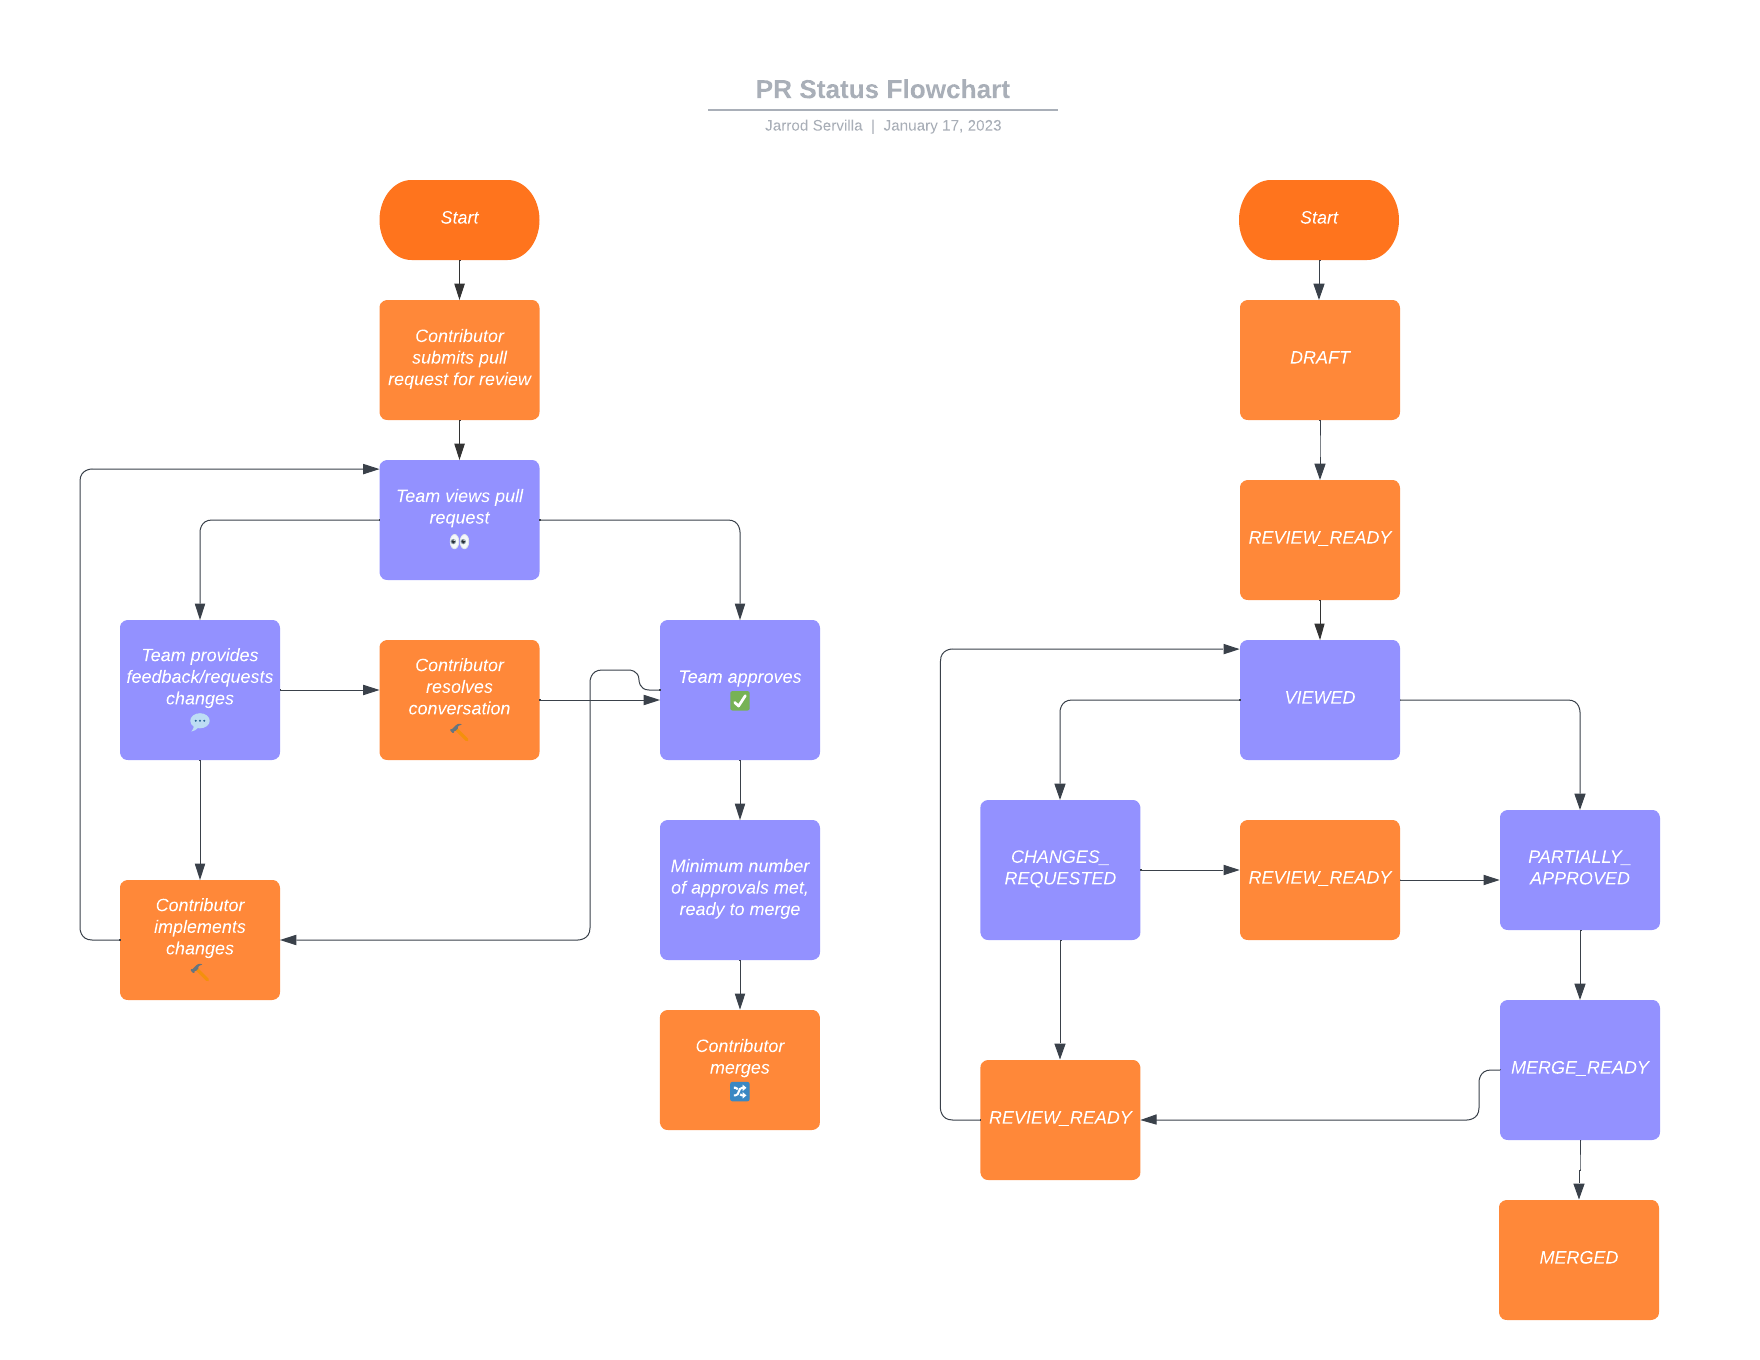
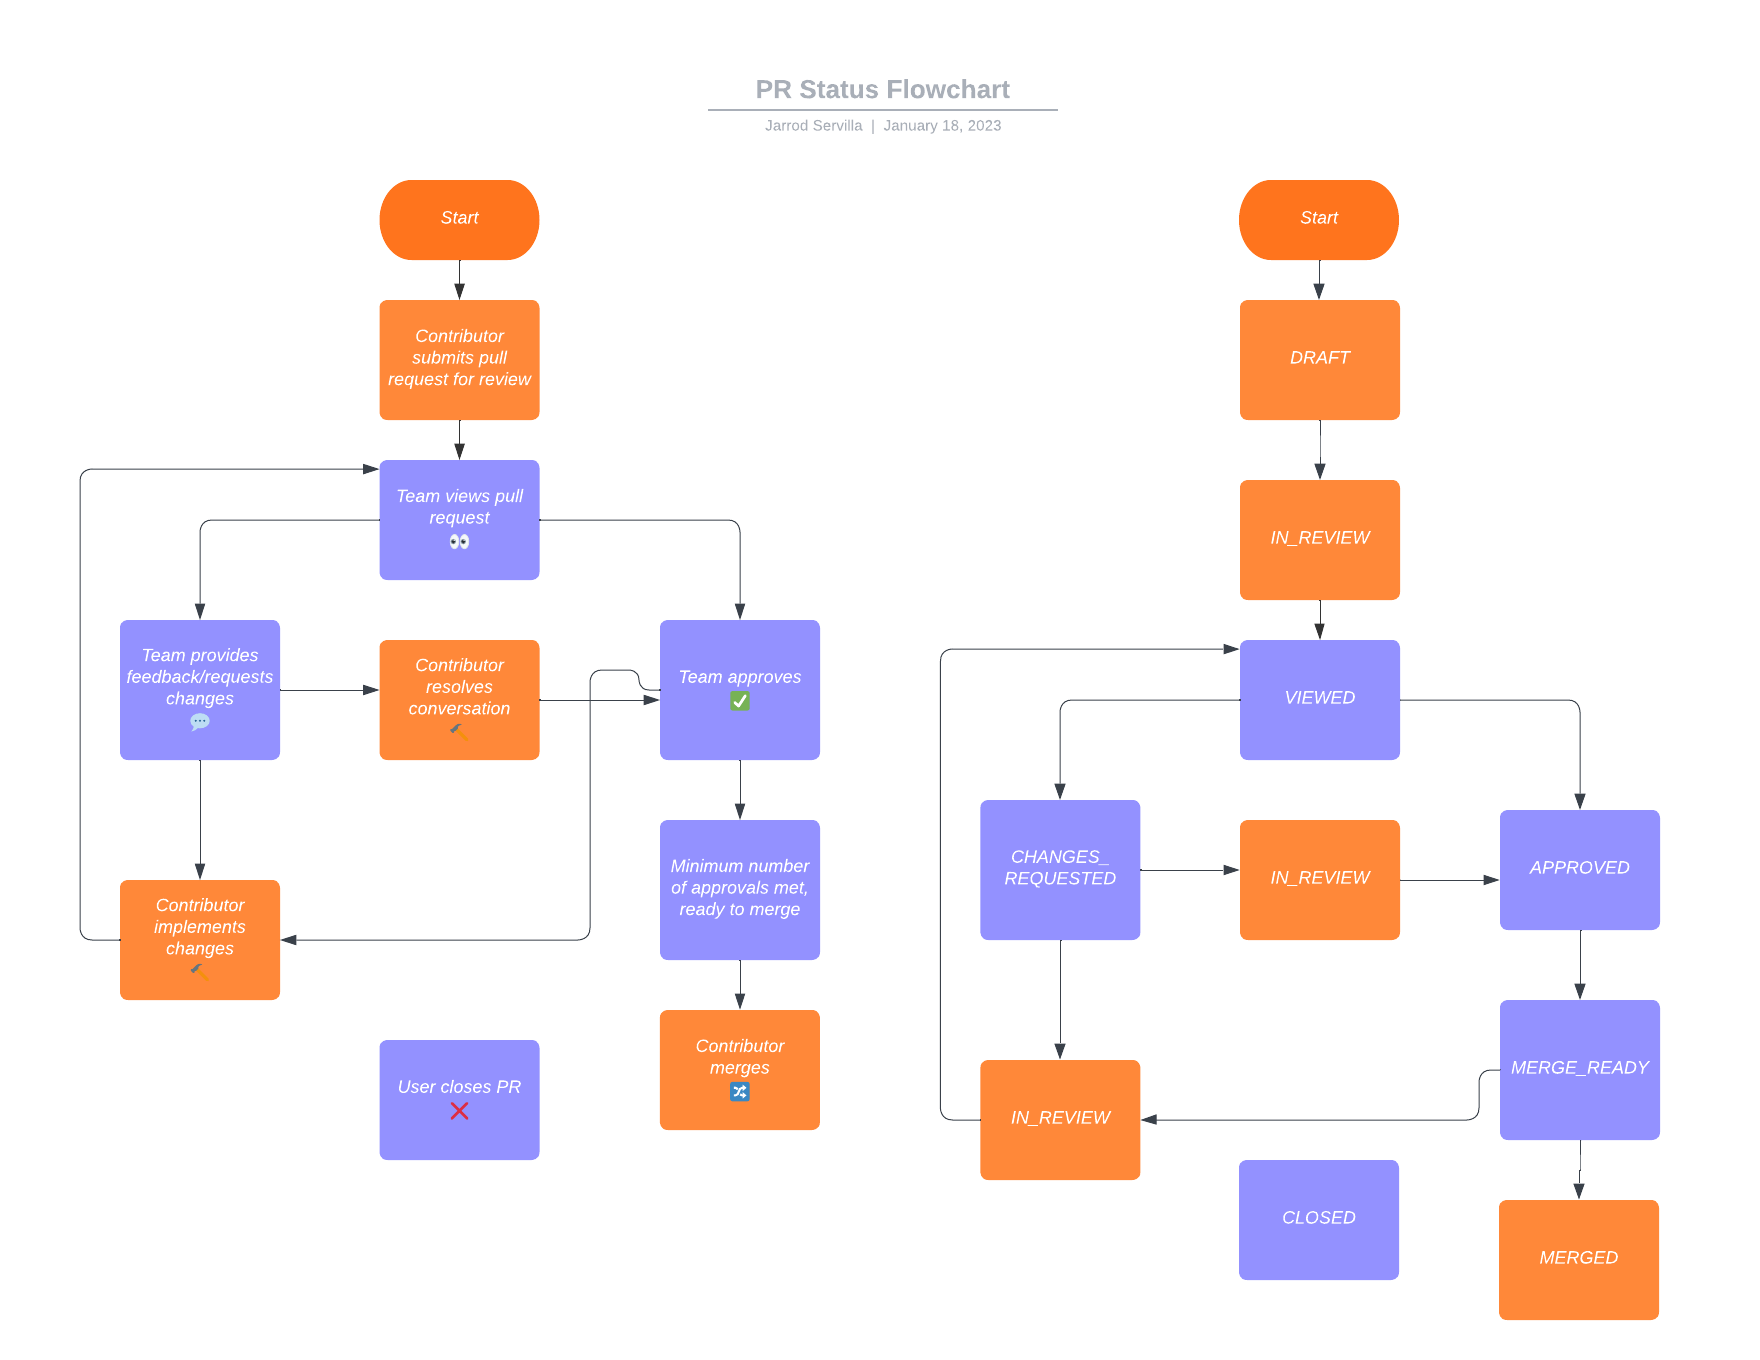
spike/data-store: add set status documentation and update possible PR statuses

diff --git a/docs/help/set_status.md b/docs/help/set_status.md
@@ -1,0 +1,25 @@
+> /help set
+
+usage: 
+
+	/set [pr url] [status]			# View your average statistics as a contributor
+	/set [pr ID] [status]			# View your average statistics as a contributor
+
+description: Set the status of a PR review request.
+
+arguments:
+
+	[pr URL] - A link to the pull request
+		ex. https://github.com/jcserv/ez-pr-bot/pulls/1
+
+	[pr ID] - A unique identifier for the pull request. Can be retrieved using /prs
+
+	[status] - The status to set the PR review request to. Can be one of ["IN_REVIEW", "VIEWED", "CHANGES_REQUESTED", "APPROVED", "MERGE_READY", "MERGED", "CLOSED"]. 
+	Case insensitive.
+		ex. IN_REVIEW, CLOSED
+
+example usage:
+
+*input:* `/set http://github.com/jcserv/ez-pr-bot/pulls/1 MERGED`
+
+*output:* (message to submitter) The status of the PR review request for http://github.com/jcserv/ez-pr-bot/pulls/1 has been set to MERGED.

diff --git a/docs/help/prs.md b/docs/help/prs.md
@@ -21,8 +21,9 @@ arguments:
 	[channel] - The Slack channel the PR review request was submitted to
 		ex. #team-ez-pr-bot
 
-	[status] - The status of the PR review request. Can be one of [“Open”, “Closed”]. Multiple statuses can be provided if comma separated. Case insensitive.
-		ex. “Open”, “Open,Closed”
+	[status] - The status of the PR review request. Can be one of ["IN_REVIEW", "VIEWED", "CHANGES_REQUESTED", "APPROVED", "MERGE_READY", "MERGED", "CLOSED"]. 
+	Multiple statuses can be provided if comma separated. Case insensitive.
+		ex. IN_REVIEW, CLOSED
 
 
 example usage:
